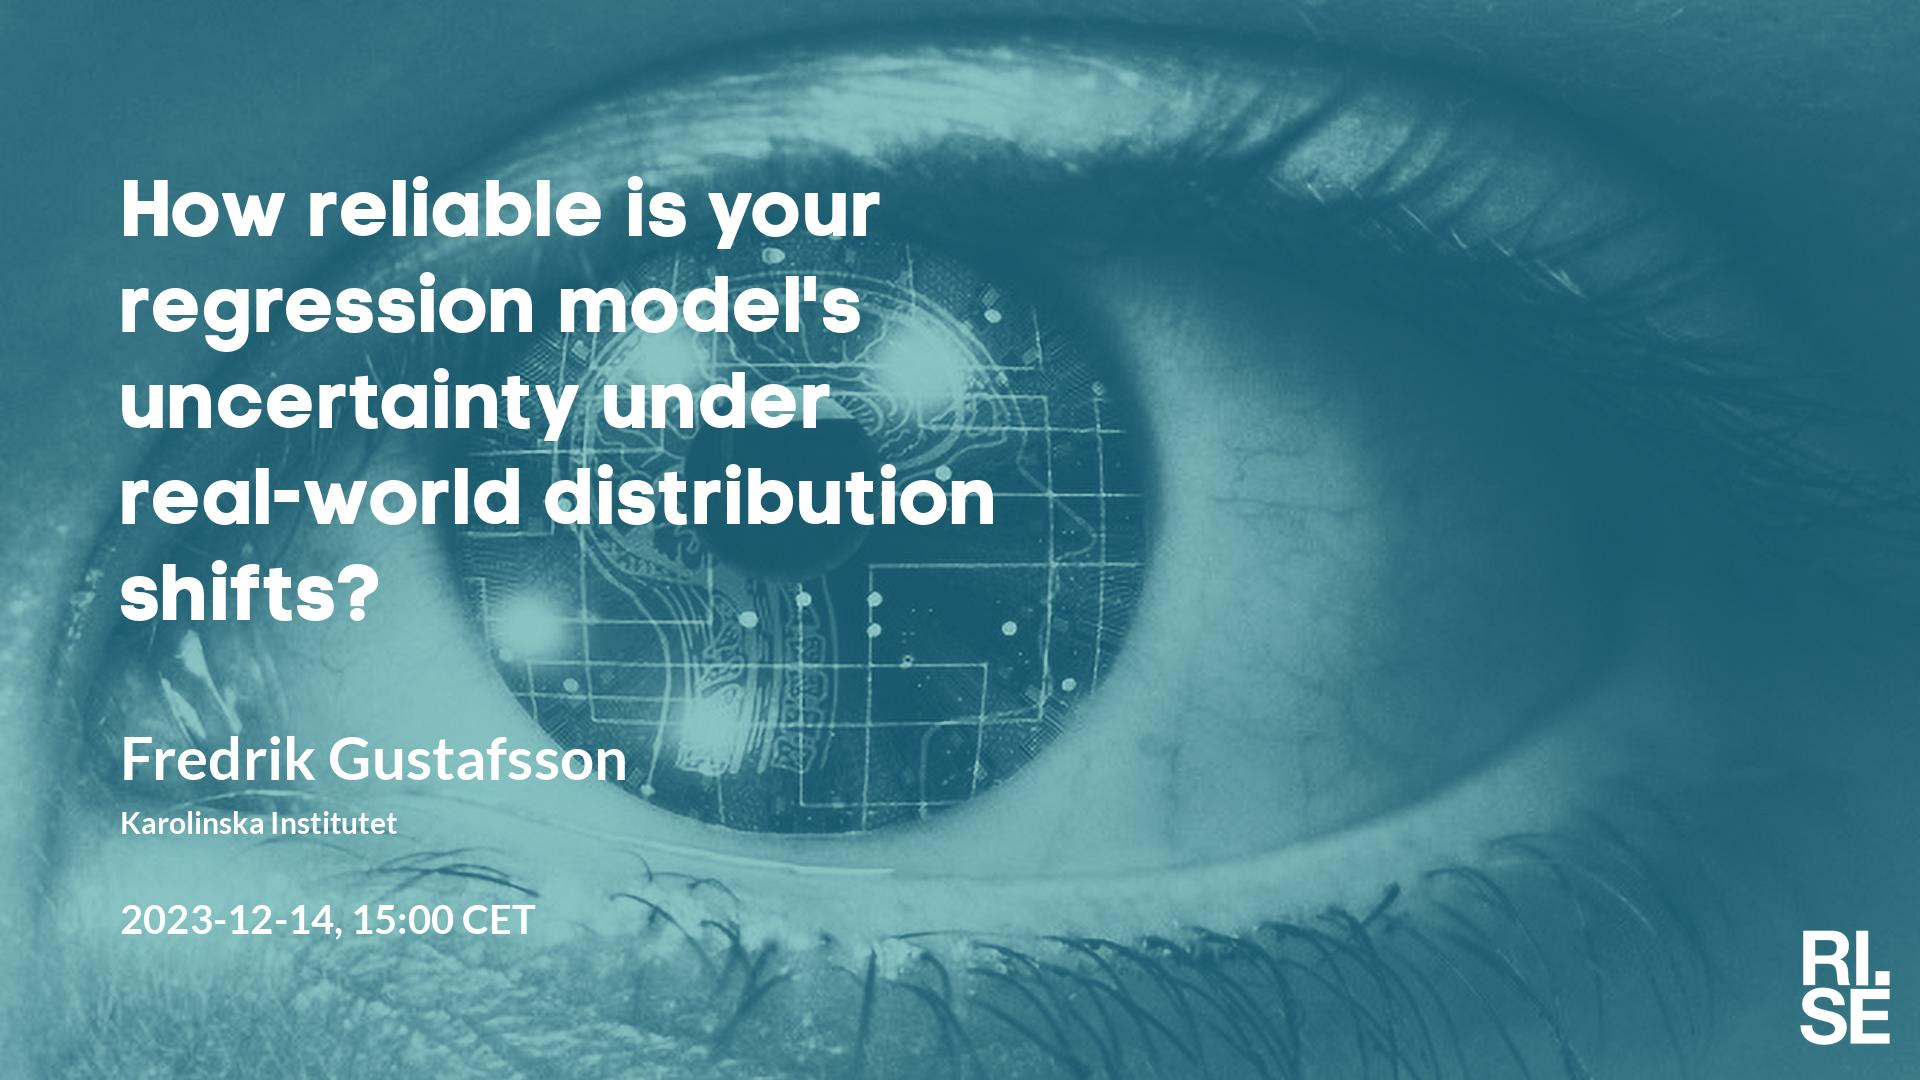
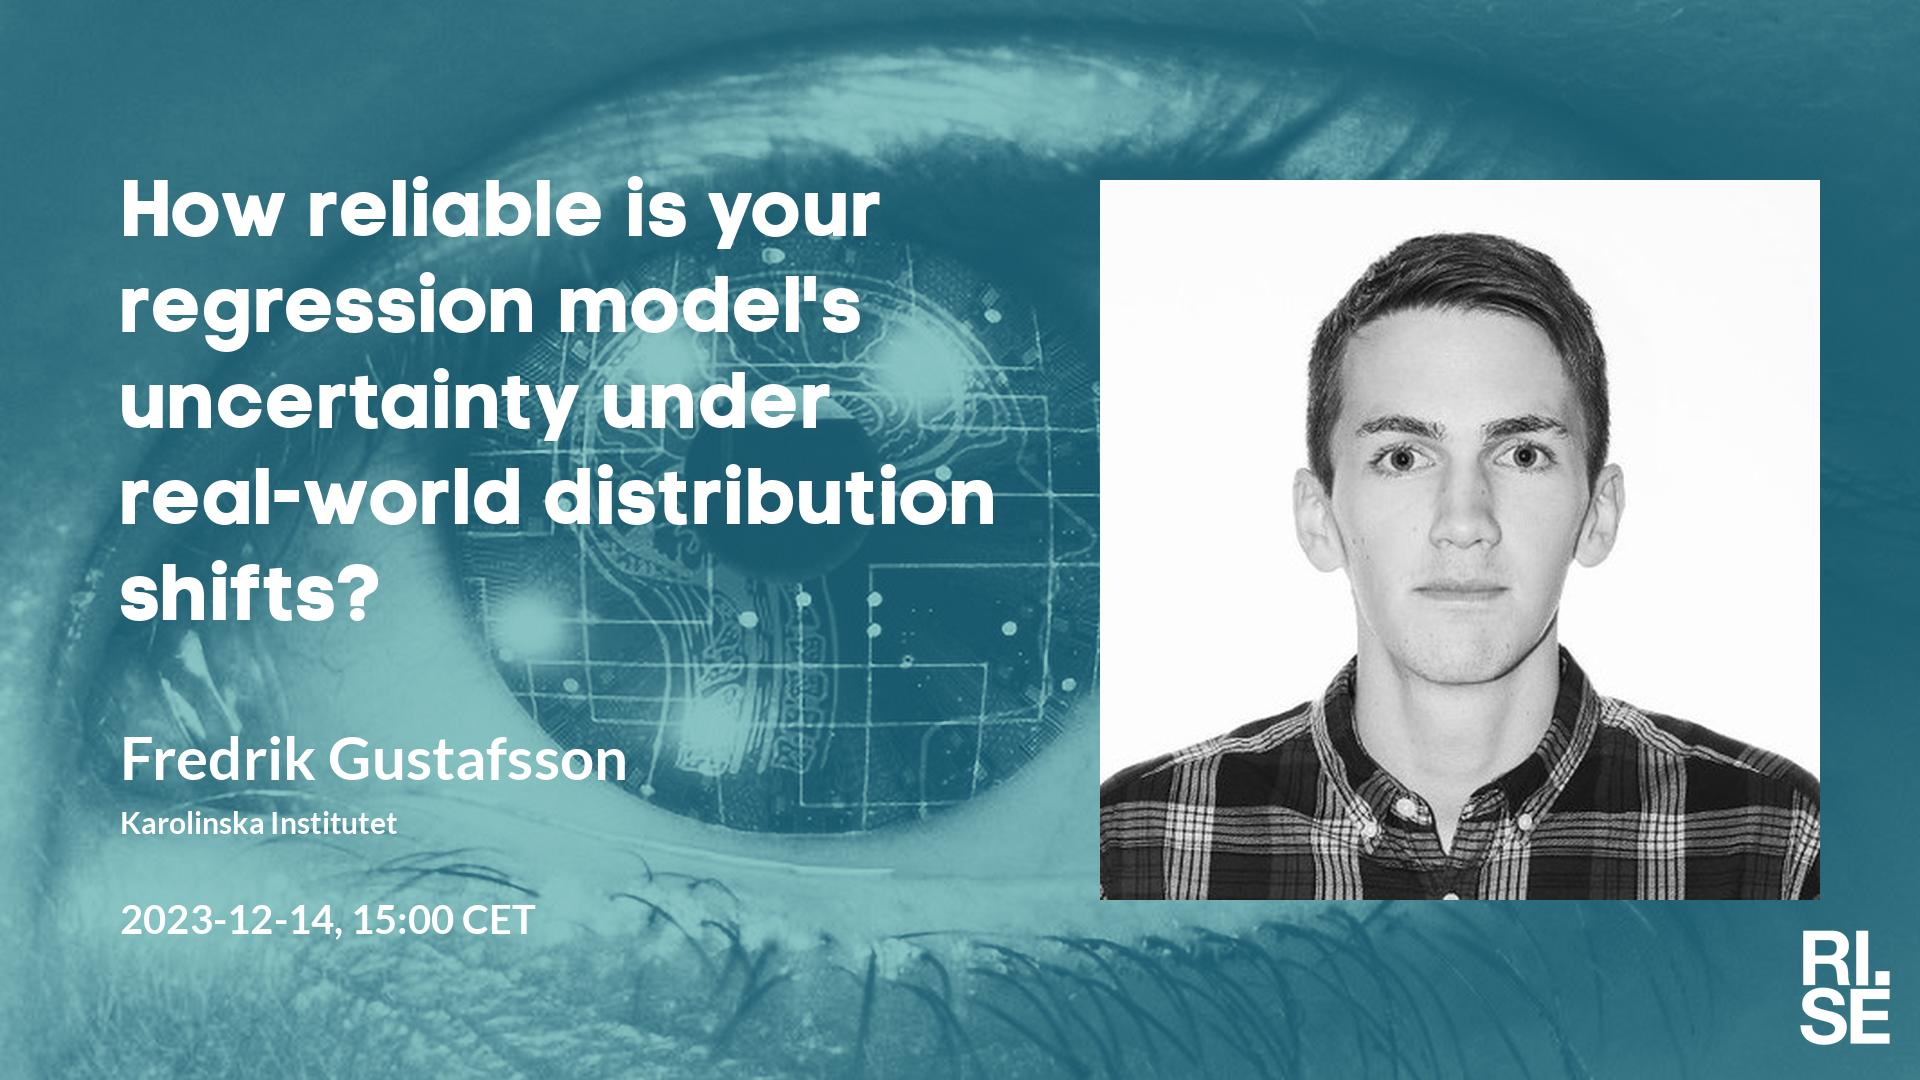
Updated plan on web site.

Changed region(s): [[0.5625, 0.1528, 0.9688, 0.8556]]

diff --git a/lm/index.md b/lm/index.md
@@ -17,7 +17,7 @@ table {border-collapse: collapse;}
 | <span style="color:red"> 2023-11-23 </span> | <span style="color:red"> Thanksgiving </span> | <span style="color:red">  </span> | <span style="color:red">  </span> | <span style="color:red">  </span> | <span style="color:red">  </span> | <span style="color:red"> CANCELLED </span> |
 |  2023-11-30  |  [Ben Weinstein, University of Florida](2023-11-30.md)  |  [photo](photo-ben-weinstein.jpg)  |  [social media ](social-media-ben-weinstein.jpg)  |  [meeting backdrop ](meeting-backdrop-ben-weinstein.jpg)  |  [youtube thumbnail ](youtube-thumbnail-ben-weinstein.jpg)  |  STABP  |
 |  2023-12-07  |  [Stefan Bauer, TU Munich](2023-12-07.md)  |  [photo](photo-stefan-bauer.jpg)  |  [social media ](social-media-stefan-bauer.jpg)  |  [meeting backdrop ](meeting-backdrop-stefan-bauer.jpg)  |  [youtube thumbnail ](youtube-thumbnail-stefan-bauer.jpg)  |  STABP  |
-|  2023-12-14  |  [Fredrik Gustafsson, Karolinska Institutet](2023-12-14.md)  |    |  [social media ](social-media-fredrik-gustafsson.jpg)  |  [meeting backdrop ](meeting-backdrop-fredrik-gustafsson.jpg)  |  [youtube thumbnail ](youtube-thumbnail-fredrik-gustafsson.jpg)  |  STAB~~P~~  |
+|  2023-12-14  |  [Fredrik Gustafsson, Karolinska Institutet](2023-12-14.md)  |  [photo](photo-fredrik-gustafsson.jpg)  |  [social media ](social-media-fredrik-gustafsson.jpg)  |  [meeting backdrop ](meeting-backdrop-fredrik-gustafsson.jpg)  |  [youtube thumbnail ](youtube-thumbnail-fredrik-gustafsson.jpg)  |  STABP  |
 | <span style="color:red"> 2023-12-21 </span> | <span style="color:red"> Christmas </span> | <span style="color:red">  </span> | <span style="color:red">  </span> | <span style="color:red">  </span> | <span style="color:red">  </span> | <span style="color:red"> CANCELLED </span> |
 | <span style="color:red"> 2023-12-28 </span> | <span style="color:red"> Christmas-break </span> | <span style="color:red">  </span> | <span style="color:red">  </span> | <span style="color:red">  </span> | <span style="color:red">  </span> | <span style="color:red"> CANCELLED </span> |
 |  2024-01-18  |  [Serge Belongie, University of Copenhagen](2024-01-18.md)  |  [photo](photo-serge-belongie.jpg)  |  [social media ](social-media-serge-belongie.jpg)  |  [meeting backdrop ](meeting-backdrop-serge-belongie.jpg)  |  [youtube thumbnail ](youtube-thumbnail-serge-belongie.jpg)  |  STABP  |
